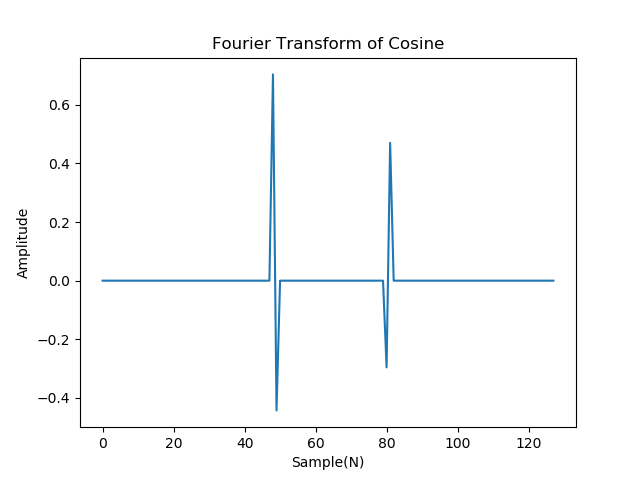
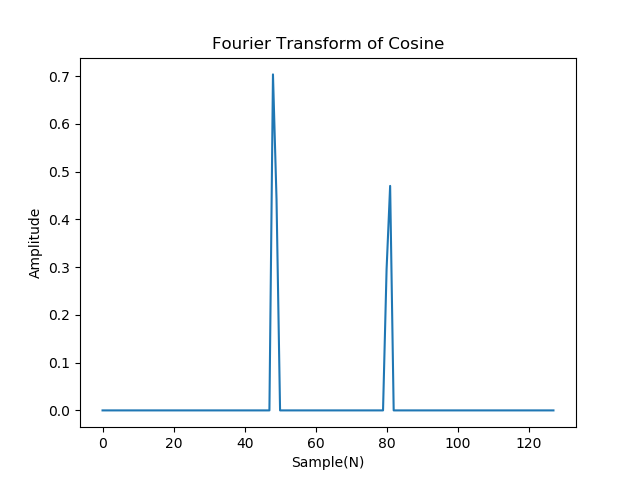
Finished Experiment 2, and added Magnitude graphs

diff --git a/P3/Experiment2.py b/P3/Experiment2.py
@@ -9,14 +9,14 @@ import matplotlib.pyplot as plt
 
 
 def Experiment2():
-    generateImg()
-    # DFT2D()
+    # generateImg()
+    DFT2D()
     
     
 # Does the FFT of a 2D image
 def DFT2D():
    
-    image = Image.open("./data_input/generatedImg.pgm")
+    image = Image.open("./data_input/lenna.pgm")
     pixels = list(image.getdata())
     width, height = image.size
     newImage = Image.new("L", (width, height))
@@ -33,15 +33,16 @@ def DFT2D():
     # Iterate over all the columns and store it into pixels
     pixels = ApplyFFTCol(pixels, height, N, isign)
 
+    # Gets the Magnitude of the image
+    pixels = getMagnitude(pixels, height, width)
     
     minVal = 1000000000000000000000000000
     maxVal = -101010100000000000000000000
-    # newImage = LogScaleValues(newImage, maxVal, minVal, pixels, height, width)
+    newImage = LogScaleValues(newImage, maxVal, minVal, pixels, height, width)
 
-    newImage = LinearScaleValues(newImage, maxVal, minVal, pixels, height, width)
+    # newImage = LinearScaleValues(newImage, maxVal, minVal, pixels, height, width)
 
     ################# Do the reverse ##################################################   
-
     # # Iterate over all the columns and store it into pixels
     # pixels = ApplyFFTCol(pixels, height, N, 1)
 
@@ -54,7 +55,7 @@ def DFT2D():
     #         val = int(pixels[rows][cols])
     #         newImage.putpixel((cols,rows), val)
 
-    newImage.save("./data_output/Experiment2/parta/generateimg_Shifted_LinearScale.png")
+    newImage.save("./data_output/Experiment2/partxtra/Lenna_Test.png")
 
 
 # Iterate over all the rows and store it into pixels
@@ -113,7 +114,6 @@ def LinearScaleValues(img, maxVal, minVal, arrayImage, Height, Width):
         for cols in range(Width):
                 arrayImage[rows][cols] = abs(arrayImage[rows][cols])
     
-    print(minVal, maxVal)
 
     # find Min Max
     for rows in range(Height):
@@ -127,8 +127,6 @@ def LinearScaleValues(img, maxVal, minVal, arrayImage, Height, Width):
 
     scalar = 255 / maxVal
     scalar = round(scalar, 10)
-    print(scalar)
-    print(maxVal, minVal)
     for rows in range(Height):
         for cols in range(Width):
             val = arrayImage[rows][cols]
@@ -153,6 +151,7 @@ def LogScaleValues(img, maxVal, minVal, arrayImage, Height, Width):
     img = LinearScaleValues(img, maxVal, minVal, arrayImage, Height, Width)
 
     return img
+
 
 # Fast Fourier Transform for Discrete 1-D Array
 def fft(data, nn, isign):
@@ -203,15 +202,35 @@ def SWAP(array, data1, data2):
     array[data2] = temp1
     return array
 
+# Translate to the center of the frequency in the spatial domain f(x)
 def changeAmplitudeSpatial(array):
     for i in range(0, array.size, 1):
         array[i] = array[i]*((-1)**i)
     return array
 
+# Translate to the center of the frequency in the Frequency domain F(u)
 def changeAmplitudeFrequency(array):
     array = np.roll(array, array.size//2)
     return array
 
+# get the PhaseAngle of the Fourier transform For Fun
+def PhaseAngleShift(array):
+    for i in range(0, array.size, 2):
+        real = array[i]
+        imaginary = array[i+1]
+        phaseAngle = math.atan2((real/imaginary))
+        array[i] = array[i+1] = phaseAngle
+    return array
+
+# get the Magnitude of the Fourier transform For Fun
+def getMagnitude(array, Height, Width):
+    for rows in range(Height):
+        for cols in range(Width):
+            val = array[rows][cols]
+            val = abs(val)
+            array[rows][cols] = val
+
+    return array
 
 def generateImg():
     # Generate a 512 x 512, place a 32x32 white square at the center

diff --git a/P3/Experiment1.py b/P3/Experiment1.py
@@ -22,7 +22,7 @@ def PartA():
     
     # Push the array right since data[0] isn't used
     # divide by nn or 1/N for normalization
-    newData = np.insert(data, 0, 0.0)
+    newData = np.insert(data/N, 0, 0.0)
     print(newData)
 
     # Do fft to data
@@ -31,6 +31,10 @@ def PartA():
     # Plot the output without 0
     retData = np.delete(retData, 0)
     plotFunction(retData, "./data_output/Experiment1/Exp1aFFT", 'x', 'y', 'FFT signal of f = [2,3,4,4]')
+
+    magnitudeData = getMagnitude(retData, N)
+    plotFunction(magnitudeData, "./data_output/Experiment1/Exp1aMagnitudeFFT", 'x', 'y', 'Magnitude FFT signal of f = [2,3,4,4]')
+
     retData = np.insert(retData, 0, 0)
 
     # Do Inverse FFT
@@ -55,7 +59,10 @@ def PartB():
 
     # Delete first element and shift everything left by N
     partb3 = np.delete(partb3, 0)
+
     partb3 = changeAmplitudeFrequency(partb3)
+    magnitudeData = getMagnitude(partb3, N)
+    plotFunction(magnitudeData, "./data_output/Experiment1/cosMagnitudeFFT", 'x', 'y', 'Magnitude Fourier Transform of Cosine')
 
    
     # print(retData)
@@ -92,6 +99,9 @@ def PartC():
     # Delete first element and shift everything left by N
     partc = np.delete(partc, 0)
     partc = changeAmplitudeFrequency(partc)
+
+    # magnitudeData = getMagnitude(partc, N)
+    # plotFunction(magnitudeData, "./data_output/Experiment1/RectMagnitudeFFT", 'x', 'y', 'Magnitude Fourier Transform of Rect_128.dat')
 
     # print(retData)
     plotFunction(partc, "./data_output/Experiment1/RectFFT", 'Sample(N)', 'Amplitude', 'Fourier Transform of Rect_128.dat')
@@ -197,6 +207,14 @@ def plotFunction(array, name, xlabel, ylabel, title):
     plt.ylabel(ylabel)
     plt.savefig(name + ".png")
 
+# get the Magnitude of the Fourier transform For Fun
+def getMagnitude(array, N):
+    size = N*2
+    for rows in range(size):
+            val = array[rows]
+            val = abs(val)
+            array[rows] = val
+    return array
 
 # maskImage = Image.open("./data_input/sf.pgm")
 Experiment1()
